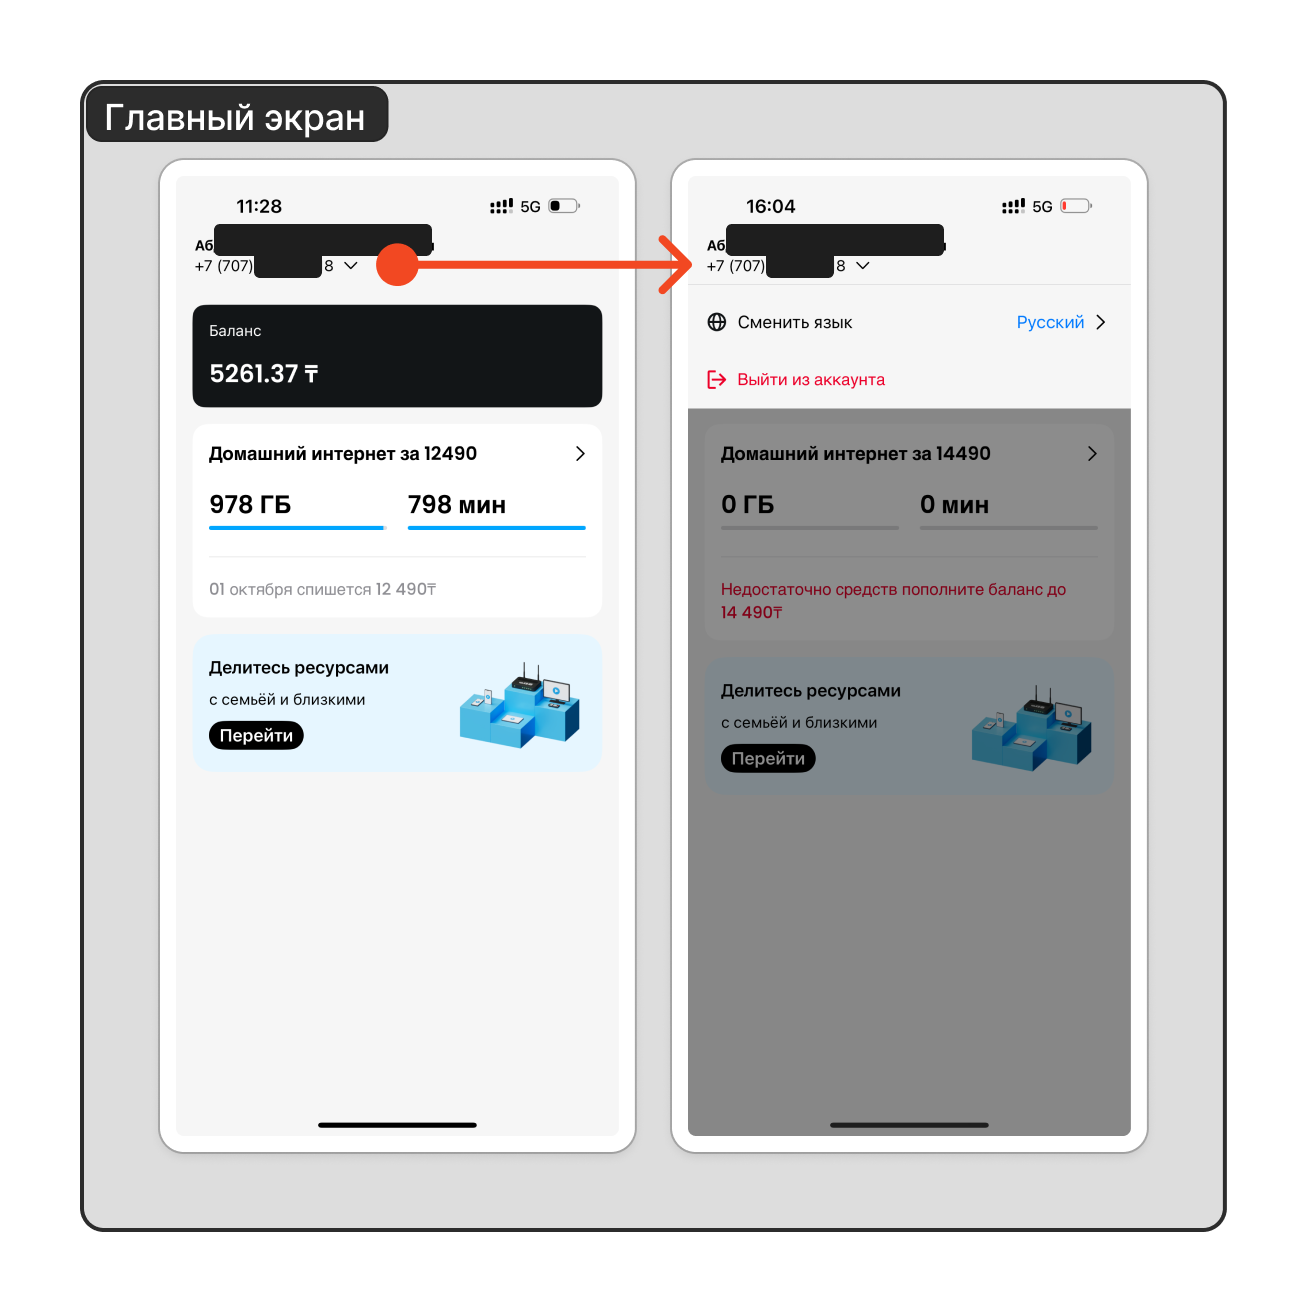
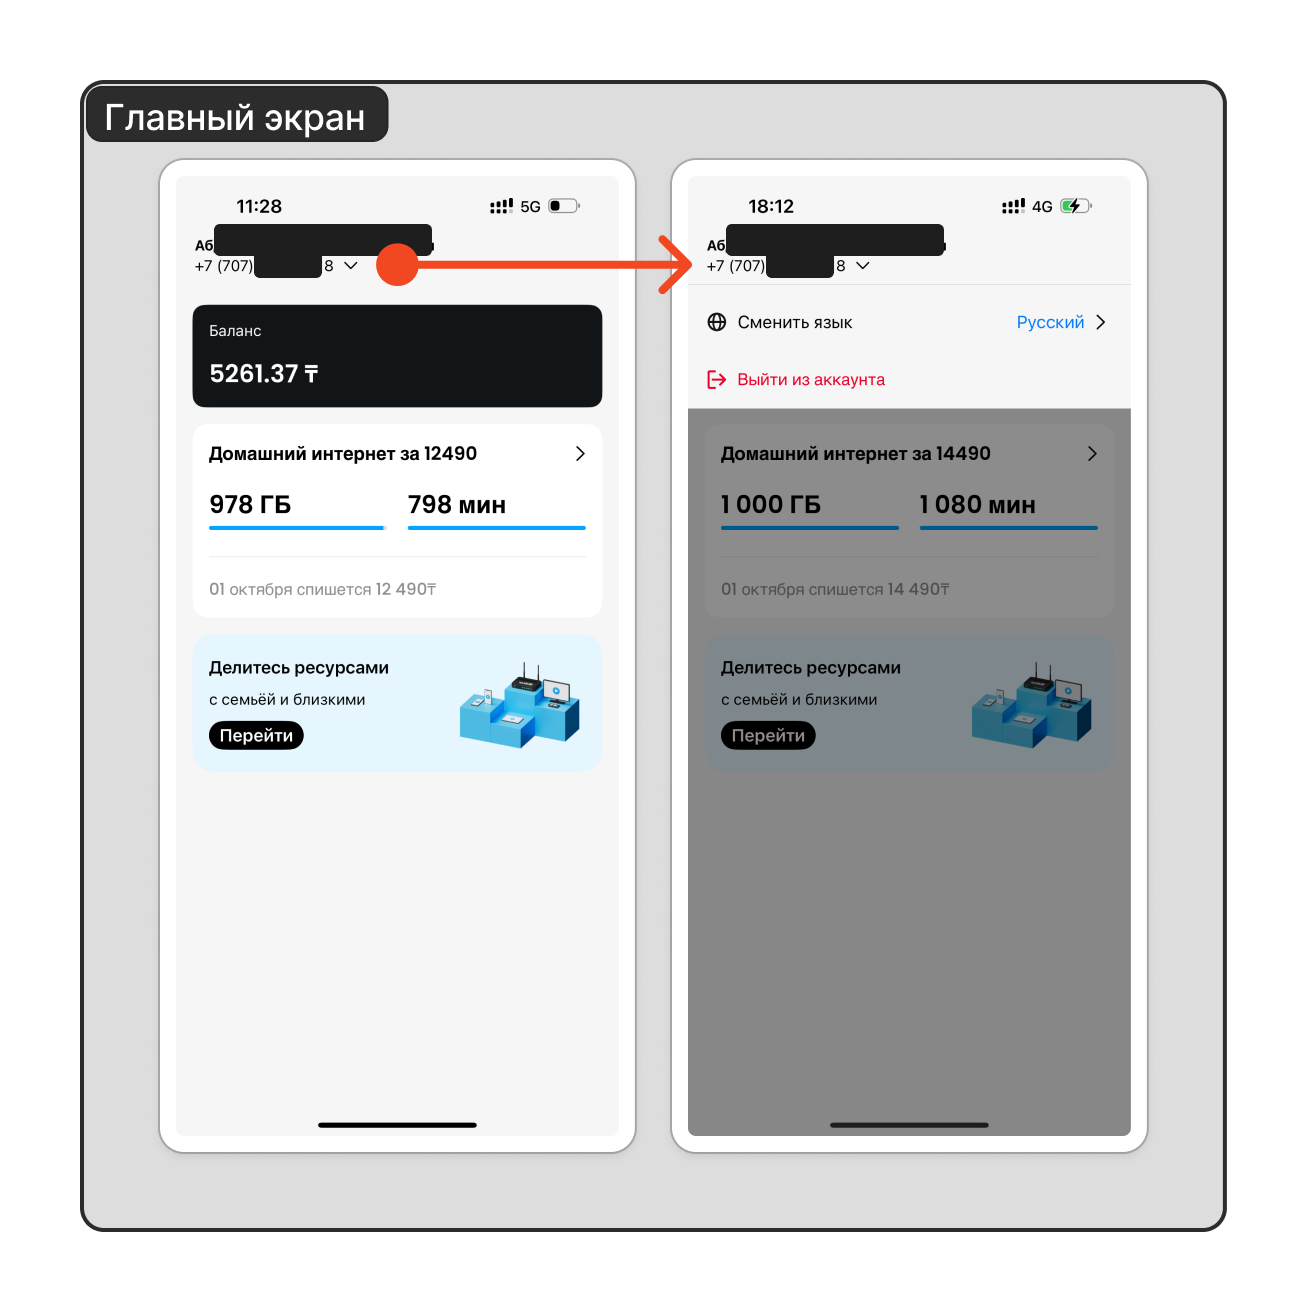
change language instruction

diff --git a/docs/index.md b/docs/index.md
@@ -15,6 +15,7 @@ has_children: true
   - [Как воспользоваться приложением?](#как-воспользоваться-приложением)
   - [Как посмотреть баланс / тариф / стоимость / дату списания?](#как-посмотреть-баланс--тариф--стоимость--дату-списания)
   - [Как воспользоваться услугой **Делитесь ресурсами**?](#как-воспользоваться-услугой-делитесь-ресурсами)
+  - [На каких языках доступно приложение?](#на-каких-языках-доступно-приложение)
 
 ![screenshot in app store](assets/images/new-banner.png)
 
@@ -64,3 +65,9 @@ has_children: true
 > [Детальное описание управления услугой Делитесь ресурсами](./share-resources.md)
 
 ---
+
+## На каких языках доступно приложение?
+
+- Приложение доступно на двух языках: казахский и русский;
+- Также доступна версия на английском языке, но перевод автоматический, могут быть ошибки;
+- Инструкция по смену языка расположена на странице с описанием [Главного экрана](main-screen.md)

diff --git a/docs/main-screen.md b/docs/main-screen.md
@@ -19,6 +19,8 @@ nav_order: 2
 - **Выйти из аккаунта**, чтобы выйти из авторизованной зоны;
 - **Смена языка**, доступны казахский и русский языки (также есть английский системный перевод, но может быть некорректный перевод).
 
+![change-language](./assets/images/change-language.png)
+
 ## Баланс
 
 ## Тарифный план
